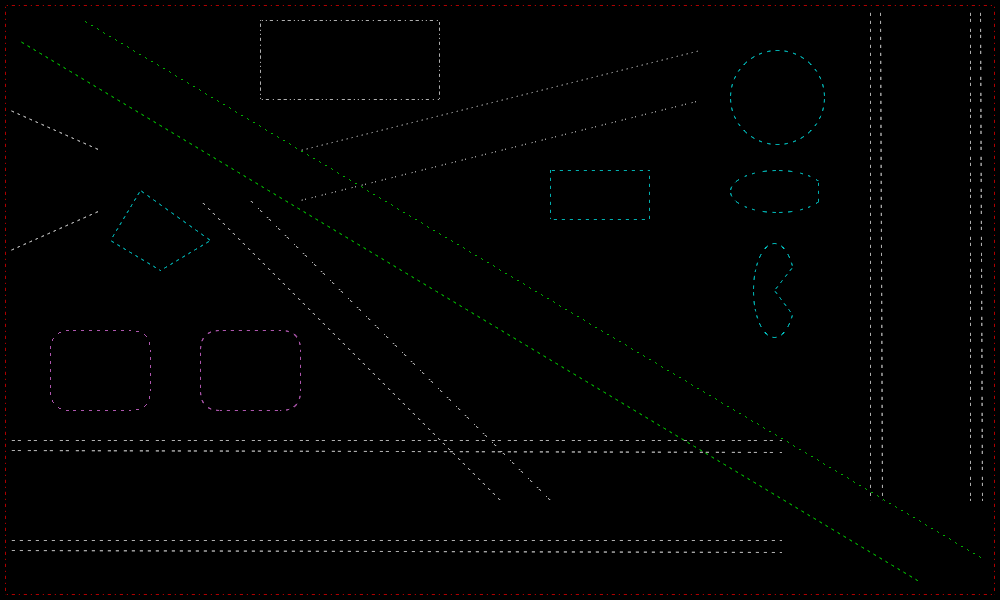
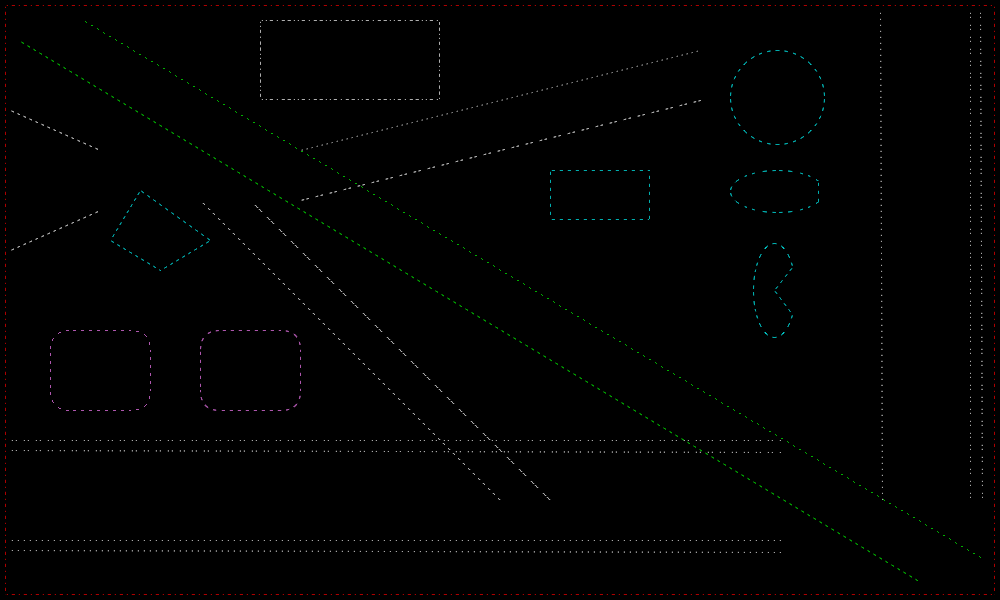
Bug-fixing

Changed region(s): [[0.186, 0.9, 0.217, 0.93]]

diff --git a/src/Pt-Gfx/Rasterizer2_Bezier.cpp b/src/Pt-Gfx/Rasterizer2_Bezier.cpp
@@ -133,12 +133,11 @@ void Rasterizer2::rasterOnePixelBezierCurve(Pt::int32_t x1, Pt::int32_t y1, Pt::
     Pt::int32_t yy = y1 - y2;
     Pt::int32_t xy;
 
-    // Curvature
-    float dx, dy, ed, err;
-    float cur = xx * sy - yy * sx;
-
     // Sign of gradient must not change
     if(xx * sx > 0 || yy * sy > 0) return;
+
+    // Curvature
+    float cur = xx * sy - yy * sx;
 
     // Begin with longer part; swap the begin and end points as needed
     if(sx * sx + sy * sy > xx * xx + yy * yy) {
@@ -182,13 +181,14 @@ void Rasterizer2::rasterOnePixelBezierCurve(Pt::int32_t x1, Pt::int32_t y1, Pt::
     }
 
     // Differences 1st degree
-    dx = 4 * sy * cur * (x2 - x1) + xx - xy;
-    dy = 4 * sx * cur * (y1 - y2) + yy - xy;
+    float dx = 4.0f * sy * cur * (x2 - x1) + xx - xy;
+    float dy = 4.0f * sx * cur * (y1 - y2) + yy - xy;
 
     // Error 1st step
-    xx  += xx;
-    yy  += yy;
-    err  = dx + dy + xy;
+    float err = dx + dy + xy;
+
+    xx += xx;
+    yy += yy;
 
     // Calculate the incremental factor of the pattern indexing counter as needed
     Pt::int32_t fpiCtrInc = 0;
@@ -207,6 +207,9 @@ void Rasterizer2::rasterOnePixelBezierCurve(Pt::int32_t x1, Pt::int32_t y1, Pt::
         fpiCtrInc = FIXED_POINT_FROM_INT(PATTERN_BUFFER_SCALE_FACTOR * s321) / l321;
     }
 
+    // Approximated error distance
+    float ed;
+
     // Draw with anti-aliasing
     if(useAA) {
         Pt::uint8_t alpha;
@@ -223,9 +226,9 @@ void Rasterizer2::rasterOnePixelBezierCurve(Pt::int32_t x1, Pt::int32_t y1, Pt::
             // Approximate the error distance
             cur = std::min(dx + xy, -xy - dy);
             ed  = std::max(dx + xy, -xy - dy);
-            ed  = (ed + 2 * ed * cur * cur / (4 * ed * ed + cur * cur));
+            ed  = (ed + 2.0f * ed * cur * cur / (4.0f * ed * ed + cur * cur));
             // Plot curve
-            alpha = 255 / ed * ::fabs(err - dx - dy - xy);
+            alpha = 255.0f / ed * ::fabs(err - dx - dy - xy);
             XW_SET_PIXEL(_image, color, x1, y1, alpha, patAlpha);
             if(maskInOut) {
                 if(firstPixel0) {
@@ -238,13 +241,13 @@ void Rasterizer2::rasterOnePixelBezierCurve(Pt::int32_t x1, Pt::int32_t y1, Pt::
             if(x1 == x3 && y1 == y3) return;
             x2  = x1;
             cur = dx - err;
-            y2  = (2 * err + dy) < 0 ? 1 : 0;
+            y2  = ( (2.0f * err + dy) < 0 ) ? 1 : 0;
             // X step
-            if(2 * err + dx > 0) {
+            if( (2.0f * err + dx) > 0 ) {
                 // Plot curve
                 if(err - dy < ed) {
                     // Set pixel
-                    alpha = 255 / ed * ::fabs(err - dy);
+                    alpha = 255.0f / ed * ::fabs(err - dy);
                     XW_SET_PIXEL(_image, color, x1, y1 + sy, alpha, patAlpha);
                     // Store back the start and end coordinates to the mask as needed
                     if(maskInOut) {
@@ -266,7 +269,7 @@ void Rasterizer2::rasterOnePixelBezierCurve(Pt::int32_t x1, Pt::int32_t y1, Pt::
                 // Plot curve
                 if(cur < ed) {
                     // Set pixel
-                    alpha = 255 / ed * ::fabs(cur);
+                    alpha = 255.0f / ed * ::fabs(cur);
                     XW_SET_PIXEL(_image, color, x2 + sx, y1, alpha, patAlpha);
                     // Store back the start and end coordinates to the mask as needed
                     if(maskInOut) {
@@ -283,7 +286,7 @@ void Rasterizer2::rasterOnePixelBezierCurve(Pt::int32_t x1, Pt::int32_t y1, Pt::
                 dx  += xx;
                 err += dx;
             }
-        } while(dy < dx); // Done if the gradient negates itself
+        } while(dy < dx); // Done when the gradient has negated itself
     }
 
     // Draw without anti-aliasing
@@ -306,13 +309,11 @@ void Rasterizer2::rasterOnePixelBezierCurve(Pt::int32_t x1, Pt::int32_t y1, Pt::
             }            // Plot curve
             XW_SET_PIXEL(_image, color, x1, y1, 0, patAlpha);
             // Check if we have just drawn the last pixel
-            if(x1 == x3 && y1 == y3) {
-                return;
-            }
+            if(x1 == x3 && y1 == y3) return;
             // Save value for test of Y step
-            y2 = (2 * err < dx) ? 1 : 0;
+            y2 = (2.0f * err < dx) ? 1 : 0;
             // X step
-            if(2 * err > dy) {
+            if( (2.0f * err) > dy ) {
                 x1  += sx;
                 dx  -= xy;
                 dy  += yy;
@@ -325,7 +326,7 @@ void Rasterizer2::rasterOnePixelBezierCurve(Pt::int32_t x1, Pt::int32_t y1, Pt::
                 dx  += xx;
                 err += dx;
             }
-        } while(dy < dx); // Done if the gradient negates itself
+        } while(dy < dx); // Done when the gradient has negated itself
     }
 
     // Undefine the helper macro

diff --git a/src/Pt-Gfx/Rasterizer2_PatternedLine.cpp b/src/Pt-Gfx/Rasterizer2_PatternedLine.cpp
@@ -221,21 +221,25 @@ void Rasterizer2::rasterOnePixelPatternedGLineSegmentXWAA(Pt::int32_t x1, Pt::in
     Pt::int32_t fy2 = FIXED_POINT_FROM_INT(y2);
 
     // A helper macro to set pixel
-    #define XW_SET_PIXEL(IMG, COL, X, Y, A, PA)                                                  \
-        do {                                                                                     \
-            /* Check the boundary limit, just in case */                                         \
-            if( (X) < 0 || (X) >= IMG->width() || (Y) < 0 || (Y) >= IMG->height() ) break;       \
-            /* Check if we should skip drawing the pixel */                                      \
-            bool skipDrawing = false;                                                            \
-            for(Pt::int32_t j = 0; j < 4; ++j) {                                                 \
-                if( (X) != mx[j] || (Y) != my[j] ) continue;                                     \
-                skipDrawing = true;                                                              \
-                break;                                                                           \
-            }                                                                                    \
-            if(skipDrawing) break;                                                               \
-            /* Set the pixel */                                                                  \
-            Pixel PIX(IMG->view(), X, Y);                                                        \
-            IMG->format().setPixel(PIX, COL, _compositionMode, (Pt::uint32_t) (A) * (PA) / 255); \
+    #define XW_SET_PIXEL(IMG, COL, X, Y, A, PA)                                   \
+        do {                                                                      \
+            /* Clip the point */                                                  \
+            if( (X) < _currentClip.left() || (X) > _currentClip.right () ||       \
+                (Y) < _currentClip.top () || (Y) > _currentClip.bottom() ) break; \
+            /* Check if we should skip drawing the pixel */                       \
+            bool skipDrawing = false;                                             \
+            for(Pt::int32_t j = 0; j < 4; ++j) {                                  \
+                if( (X) != mx[j] || (Y) != my[j] ) continue;                      \
+                skipDrawing = true;                                               \
+                break;                                                            \
+            }                                                                     \
+            if(skipDrawing) break;                                                \
+            /* Combine and check the alpha */                                     \
+            Pt::uint8_t calpha = (Pt::uint32_t) (A) * (PA) / 255;                 \
+            if(!calpha) break;                                                    \
+            /* Set the pixel */                                                   \
+            Pixel PIX(IMG->view(), X, Y);                                         \
+            IMG->format().setPixel(PIX, COL, _compositionMode, calpha);           \
         } while(false)
 
     // Swap the values as needed
@@ -246,13 +250,18 @@ void Rasterizer2::rasterOnePixelPatternedGLineSegmentXWAA(Pt::int32_t x1, Pt::in
     if(steep) {
         std::swap(fx1, fy1);
         std::swap(fx2, fy2);
-        //fpiCtrInOut = _fpatternMaxCtr - fpiCtrInOut;
     }
 
     if(fx1 > fx2) {
         std::swap(fx1, fx2);
         std::swap(fy1, fy2);
-        //fpiCtrInOut = _fpatternMaxCtr - fpiCtrInOut;
+
+        while(true) {
+            fpiCtrInOut += fpiCtrInc;
+            if(fpiCtrInOut <= _fpatternMaxCtr) continue;
+            fpiCtrInOut = 0;
+            break;
+        }
     }
 
     // Handle the gradient, starting point, and ending point

diff --git a/src/Pt-Gfx/tests/ImagePainterTest2_Draw_Outline.cpp b/src/Pt-Gfx/tests/ImagePainterTest2_Draw_Outline.cpp
@@ -99,17 +99,17 @@ static void testDrawPatternedLine(const char* title, Image& image, Painter& pain
     painter.drawLine( PointF(500, 500), PointF(200, 200) );
     painter.drawLine( PointF(300, 150), PointF(700,  50) );
 
-    painter.setPen( Pen( Color::fromRgb8(255, 255, 255, 175), 1, Pen::DoubleDot ) );
+    painter.setPen( Pen( Color::fromRgb8(255, 255, 255, 175), 1, Pen::DoubleDash ) );
     painter.drawLine( PointF(550, 500), PointF(250, 200) );
     painter.drawLine( PointF(300, 200), PointF(700, 100) );
 
-    painter.setPen( Pen( Color::fromRgb8(255, 255, 255, 175), 1, Pen::Dash ) );
-    painter.drawLine( PointF(870,  11), PointF(870, 500) );
+    painter.setPen( Pen( Color::fromRgb8(255, 255, 255, 175), 1, Pen::Dot ) );
+    //painter.drawLine( PointF(870,  11), PointF(870, 500) );
     painter.drawLine( PointF(880,  11), PointF(882, 500) );
     painter.drawLine( PointF( 10, 540), PointF(781, 540) );
     painter.drawLine( PointF(781, 552), PointF( 10, 550) );
 
-    painter.setPen( Pen( Color::fromRgb8(255, 255, 255, 175), 1, Pen::DoubleDash ) );
+    painter.setPen( Pen( Color::fromRgb8(255, 255, 255, 175), 1, Pen::DoubleDot ) );
     painter.drawLine( PointF(970,  11), PointF(970, 500) );
     painter.drawLine( PointF(980,  11), PointF(982, 500) );
     painter.drawLine( PointF( 10, 440), PointF(781, 440) );
